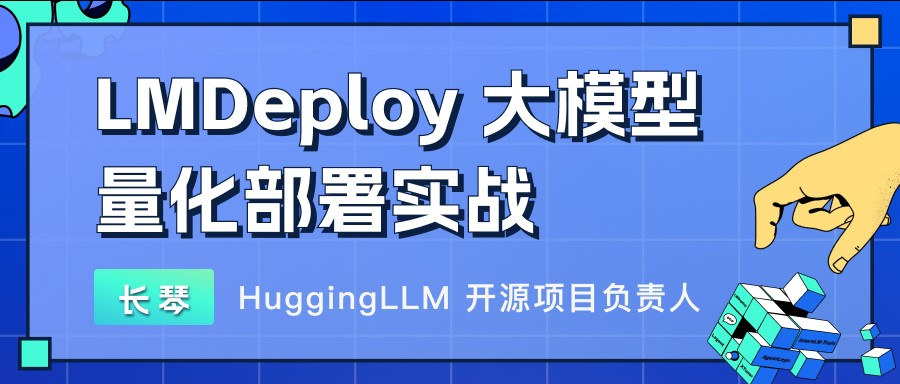
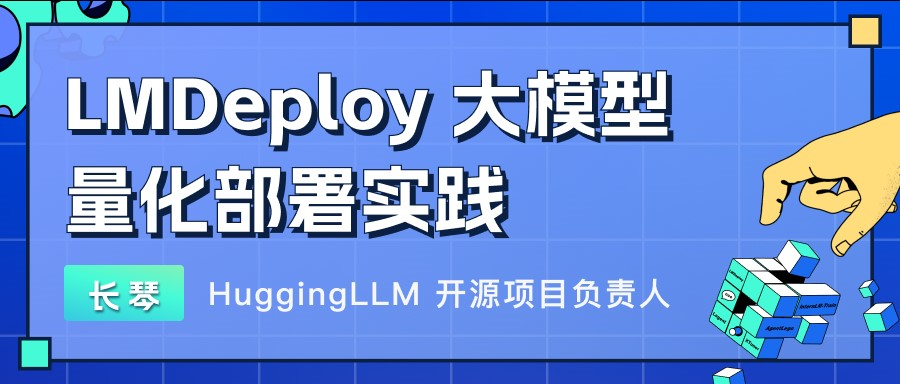
update cover (#21)

Changed region(s): [[0.0622, 0.1562, 0.8089, 0.625], [0.0622, 0.2812, 1.0, 1.0]]

diff --git a/lmdeploy/lmdeploy.md b/lmdeploy/lmdeploy.md
@@ -14,7 +14,7 @@
     - [2.4.1 TurboMind服务作为后端](#241-turbomind%E6%9C%8D%E5%8A%A1%E4%BD%9C%E4%B8%BA%E5%90%8E%E7%AB%AF)
     - [2.4.2 TurboMind推理作为后端](#242-turbomind%E6%8E%A8%E7%90%86%E4%BD%9C%E4%B8%BA%E5%90%8E%E7%AB%AF)
   - [2.5 TurboMind推理+Python代码集成](#25-turbomind%E6%8E%A8%E7%90%86python%E4%BB%A3%E7%A0%81%E9%9B%86%E6%88%90)
-  - [2.6 这么多，头秃，有没有最佳实践](#26-%E8%BF%99%E4%B9%88%E5%A4%9A%E5%A4%B4%E5%87%B8%E6%9C%89%E6%B2%A1%E6%9C%89%E6%9C%80%E4%BD%B3%E5%AE%9E%E8%B7%B5)
+  - [2.6 这么多，头秃，有没有最佳实践](#26-%E8%BF%99%E4%B9%88%E5%A4%9A%E5%A4%B4%E7%A7%83%E6%9C%89%E6%B2%A1%E6%9C%89%E6%9C%80%E4%BD%B3%E5%AE%9E%E8%B7%B5)
     - [2.6.1 方案实践](#261-%E6%96%B9%E6%A1%88%E5%AE%9E%E8%B7%B5)
     - [2.6.2 模型配置实践](#262-%E6%A8%A1%E5%9E%8B%E9%85%8D%E7%BD%AE%E5%AE%9E%E8%B7%B5)
 - [3 模型量化](#3-%E6%A8%A1%E5%9E%8B%E9%87%8F%E5%8C%96)
